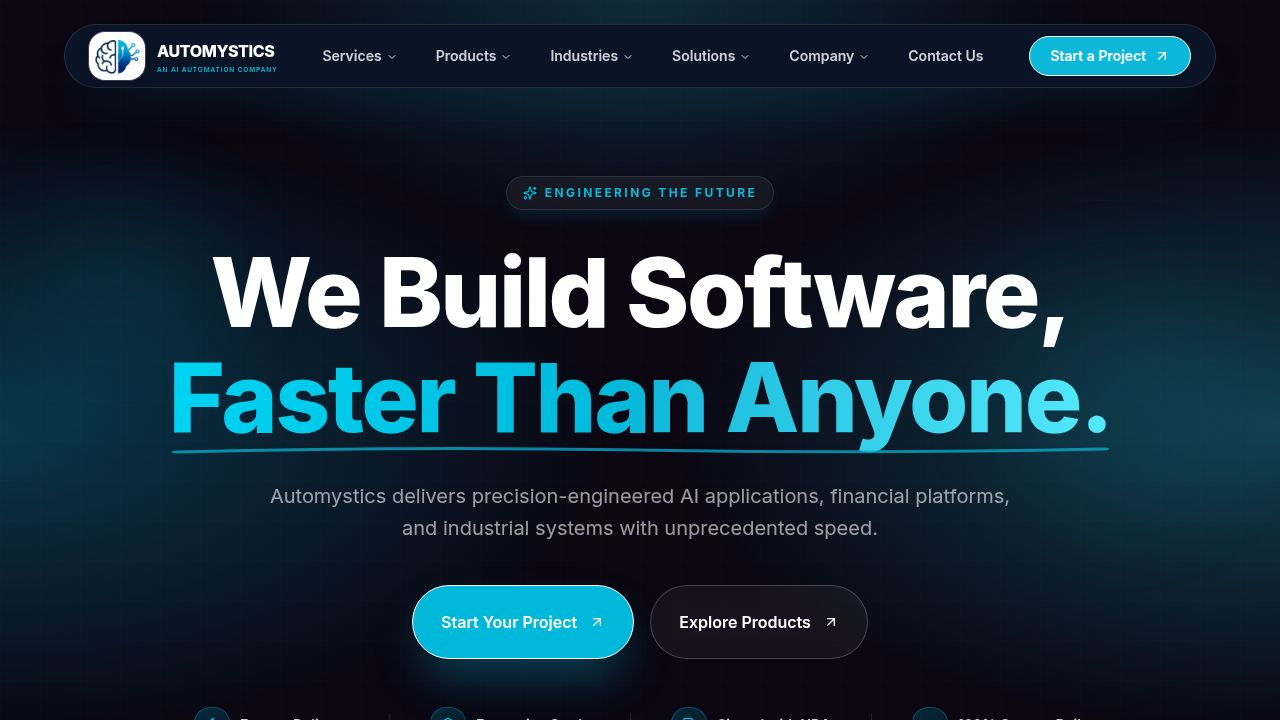
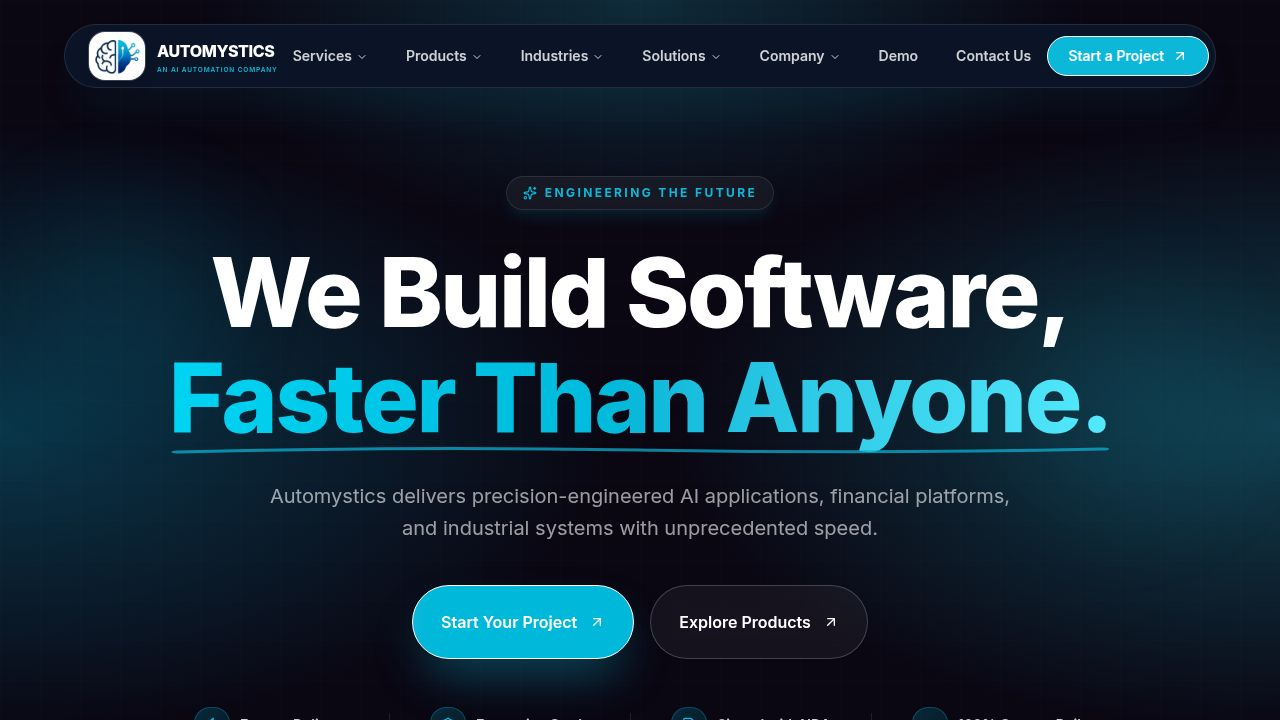
Update website to dynamically display company products in navigation and on homepage
Refactor `Navbar`, `Footer`, and `Home` components to use `useProducts` hook for dynamic product data, with fallback to static data.

Replit-Commit-Author: Agent
Replit-Commit-Session-Id: 7e27afc6-e966-49f7-9323-9669dcc9b14f
Replit-Commit-Checkpoint-Type: full_checkpoint
Replit-Commit-Event-Id: 4afeaa8f-ab70-4fde-af48-c72c5676be8e
Replit-Commit-Screenshot-Url: https://storage.googleapis.com/screenshot-production-us-central1/bb7d7bfa-f04d-434f-bb6e-625a8fa11303/7e27afc6-e966-49f7-9323-9669dcc9b14f/EVKmPht
Replit-Helium-Checkpoint-Created: true

Changed region(s): [[0.2188, 0.0306, 0.9688, 0.1222]]

diff --git a/artifacts/automystics/src/components/layout/footer.tsx b/artifacts/automystics/src/components/layout/footer.tsx
@@ -4,10 +4,21 @@ import { Button } from "@/components/ui/button";
 import { Twitter, Linkedin, Github, Mail, MapPin, Phone, ArrowUpRight } from "lucide-react";
 import { useSiteSettings, formatAddressLines } from "@/hooks/use-site-settings";
 import { useLocations, formatLocationAddress, LOCATION_TYPE_LABELS } from "@/hooks/use-locations";
+import { useProducts } from "@/hooks/use-products";
+
+const FOOTER_FALLBACK = [
+  { key: "chit-fund", title: "Chit Fund Mgmt" },
+  { key: "kalvicore", title: "KalviCore CMS" },
+  { key: "kural-ai", title: "Kural AI Voice" },
+  { key: "auto-algo", title: "Auto Algo Trading" },
+  { key: "scada", title: "SCADA Monitoring" },
+  { key: "fitro360", title: "Fitro360 Gym Mgmt" },
+];
 
 export function Footer() {
   const site = useSiteSettings();
   const locations = useLocations();
+  const { products: footerProducts } = useProducts();
   const fallbackLines = formatAddressLines(site);
   return (
     <footer className="bg-gradient-to-b from-[#111A2E] to-[#0B1426] border-t border-white/5 pt-24 pb-12 relative overflow-hidden">
@@ -61,12 +72,13 @@ export function Footer() {
           <div className="lg:col-span-2 space-y-6">
             <h3 className="text-white font-bold tracking-wide">Products</h3>
             <ul className="space-y-4">
-              <li><Link href="/products#chit-fund" className="text-sm text-white/60 hover:text-primary transition-colors">Chit Fund Mgmt</Link></li>
-              <li><Link href="/products#kalvicore" className="text-sm text-white/60 hover:text-primary transition-colors">KalviCore CMS</Link></li>
-              <li><Link href="/products#kural-ai" className="text-sm text-white/60 hover:text-primary transition-colors">Kural AI Voice</Link></li>
-              <li><Link href="/products#auto-algo" className="text-sm text-white/60 hover:text-primary transition-colors">Auto Algo Trading</Link></li>
-              <li><Link href="/products#scada" className="text-sm text-white/60 hover:text-primary transition-colors">SCADA Monitoring</Link></li>
-              <li><Link href="/products#fitro360" className="text-sm text-white/60 hover:text-primary transition-colors">Fitro360 Gym Mgmt</Link></li>
+              {(footerProducts.length ? footerProducts : FOOTER_FALLBACK).slice(0, 8).map((p) => (
+                <li key={p.key}>
+                  <Link href={`/products#${p.key}`} className="text-sm text-white/60 hover:text-primary transition-colors">
+                    {p.title}
+                  </Link>
+                </li>
+              ))}
             </ul>
           </div>
 

diff --git a/artifacts/automystics/src/components/layout/navbar.tsx b/artifacts/automystics/src/components/layout/navbar.tsx
@@ -1,7 +1,7 @@
 import React from "react";
 import { Link, useLocation } from "wouter";
 import { Button } from "@/components/ui/button";
-import { Menu, ArrowUpRight, Building2, GraduationCap, Mic, LineChart, Sun, Camera, Code, Server, Cloud, Smartphone, Paintbrush, Cog, Workflow, Settings, Users, BookOpen, Briefcase, FileText, HeartHandshake, Database, Dumbbell } from "lucide-react";
+import { Menu, ArrowUpRight, Building2, GraduationCap, Mic, LineChart, Sun, Camera, Code, Server, Cloud, Smartphone, Paintbrush, Cog, Workflow, Settings, Users, BookOpen, Briefcase, FileText, HeartHandshake, Database, Dumbbell, Package, Zap, Shield, HeartPulse, CalendarCheck, Activity, DollarSign } from "lucide-react";
 import {
   NavigationMenu,
   NavigationMenuContent,
@@ -11,6 +11,12 @@ import {
   NavigationMenuTrigger,
 } from "@/components/ui/navigation-menu";
 import { Sheet, SheetContent, SheetTrigger } from "@/components/ui/sheet";
+import { useProducts } from "@/hooks/use-products";
+
+const PRODUCT_ICON_MAP: Record<string, any> = {
+  Building2, GraduationCap, Mic, LineChart, Sun, Camera, Code, Dumbbell,
+  Zap, Database, Shield, HeartPulse, CalendarCheck, Activity, Users, DollarSign, Package,
+};
 
 const services = [
   { id: "custom-software", title: "Custom Software", desc: "Bespoke enterprise architecture", icon: Code },
@@ -23,7 +29,7 @@ const services = [
   { id: "maintenance", title: "Maintenance", desc: "24/7 support & monitoring", icon: Cog },
 ];
 
-const products = [
+const fallbackProducts = [
   { id: "chit-fund", title: "Chit Fund Management", desc: "Digital platform for finance", icon: Building2 },
   { id: "school-management", title: "School Management", desc: "End-to-end administration", icon: GraduationCap },
   { id: "kalvicore", title: "KalviCore", desc: "Advanced College Management", icon: GraduationCap },
@@ -92,6 +98,15 @@ export function Navbar() {
   const [location] = useLocation();
   const isHome = location === "/";
   const isContact = location === "/contact";
+  const { products: livePublicProducts } = useProducts();
+  const products = livePublicProducts.length
+    ? livePublicProducts.map((p) => ({
+        id: p.key,
+        title: p.title,
+        desc: p.category || (p.description ? p.description.slice(0, 60) : ""),
+        icon: PRODUCT_ICON_MAP[p.icon || "Package"] || Package,
+      }))
+    : fallbackProducts;
 
   const triggerClass = (path: string) => {
     const active = location === path || location.startsWith(path + "/");

diff --git a/artifacts/automystics/src/pages/home.tsx b/artifacts/automystics/src/pages/home.tsx
@@ -7,10 +7,17 @@ import { motion } from "framer-motion";
 import { 
   Building2, GraduationCap, Mic, LineChart, Sun, Camera, Code, Dumbbell,
   Zap, Shield, Clock, ArrowUpRight, CheckCircle2, Factory, Database,
-  Activity, Users, Sparkles, HandCoins, FileSignature, ShieldCheck
+  Activity, Users, Sparkles, HandCoins, FileSignature, ShieldCheck,
+  Package, HeartPulse, CalendarCheck, DollarSign
 } from "lucide-react";
+import { useProducts } from "@/hooks/use-products";
 
-const products = [
+const HOME_ICON_MAP: Record<string, any> = {
+  Building2, GraduationCap, Mic, LineChart, Sun, Camera, Code, Dumbbell,
+  Zap, Database, Shield, HeartPulse, CalendarCheck, Activity, Users, DollarSign, Package,
+};
+
+const fallbackProducts = [
   { id: "chit-fund", title: "Chit Fund Management", desc: "Complete transparency for finance companies.", icon: Building2 },
   { id: "kalvicore", title: "KalviCore", desc: "Advanced College Management System.", icon: GraduationCap },
   { id: "kural-ai", title: "Kural AI", desc: "Next-gen intelligent voice automation.", icon: Mic },
@@ -23,6 +30,15 @@ const products = [
 ];
 
 export function Home() {
+  const { products: livePublicProducts } = useProducts();
+  const products = livePublicProducts.length
+    ? livePublicProducts.map((p) => ({
+        id: p.key,
+        title: p.title,
+        desc: p.description ? p.description.slice(0, 80) : (p.category || ""),
+        icon: HOME_ICON_MAP[p.icon || "Package"] || Package,
+      }))
+    : fallbackProducts;
   return (
     <div className="relative">
       <SEO 
